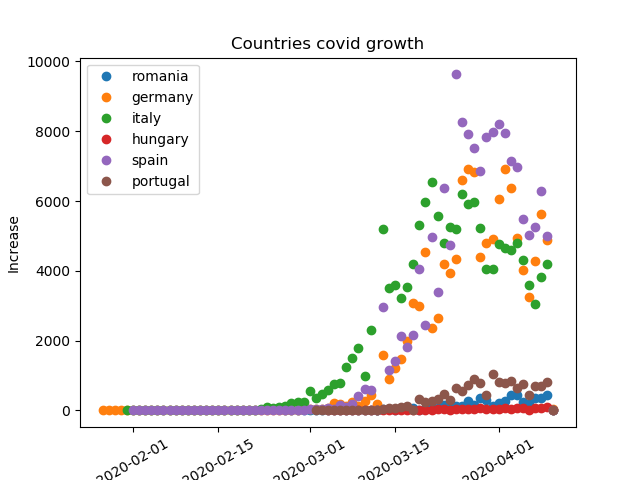
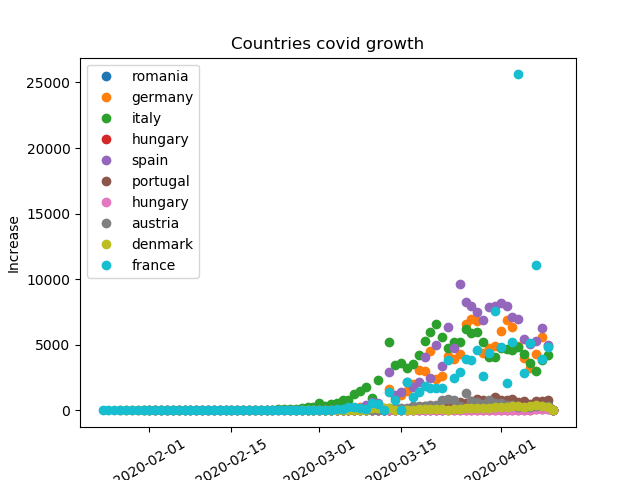
graph data

diff --git a/covid-data/coviddata.py b/covid-data/coviddata.py
@@ -5,7 +5,7 @@ import traceback
 import requests
 import matplotlib.dates
 import datetime
-countries=["romania","germany","italy","hungary","spain","portugal"]
+countries=["romania","germany","italy","hungary","spain","portugal","hungary","austria","denmark","france"]#,"united-states"]
 x=[]
 y=[]
 xgrow=[]
@@ -20,13 +20,43 @@ for c in countries:
     ygrowa=[]
     cnt=0
     init=0
-    for rec in r.json():
-        d=datetime.datetime.strptime(rec["Date"], "%Y-%m-%dT%H:%M:%SZ")
-        xaux.append(d)
-        yaux.append(rec["Cases"])
-        xgrowa.append(d)
-        ygrowa.append(int(rec["Cases"])-init)
-        init=int(rec["Cases"])
+    date_init=None
+    prev_app=0
+    if c=="united-states" or c=="china":
+        for rec in r.json():
+            d=datetime.datetime.strptime(rec["Date"], "%Y-%m-%dT%H:%M:%SZ")
+            if date_init != None and date_init.year == d.year and  date_init.month == d.month and date_init.day == d.day:
+                #print("yes")
+                #yaux.append(rec["Cases"]+init)
+                #ygrowa.append(int(rec["Cases"])-init)
+                init=abs(int(rec["Cases"]))+init
+            else :
+                init+=rec["Cases"]
+                xaux.append(d)
+                yaux.append(abs(init))
+                xgrowa.append(d)
+                ygrowa.append(init-prev_app)
+                prev_app=init
+                init=0#int(rec["Cases"])
+                date_init=d
+    else:
+        for rec in r.json():       
+            if int(rec["Cases"]) ==0:
+                continue
+            try:
+                prov=rec["Province"]
+                continue
+            except KeyError:
+                pass
+            d=datetime.datetime.strptime(rec["Date"], "%Y-%m-%dT%H:%M:%SZ")
+            init+=rec["Cases"]
+            xaux.append(d)
+            yaux.append(abs(init))
+            xgrowa.append(d)
+            ygrowa.append(int(rec["Cases"])-prev_app)
+            prev_app=init
+            init=0#int(rec["Cases"])
+            date_init=d
     x.append(xaux)
     y.append(yaux)
     xgrow.append(xgrowa)
